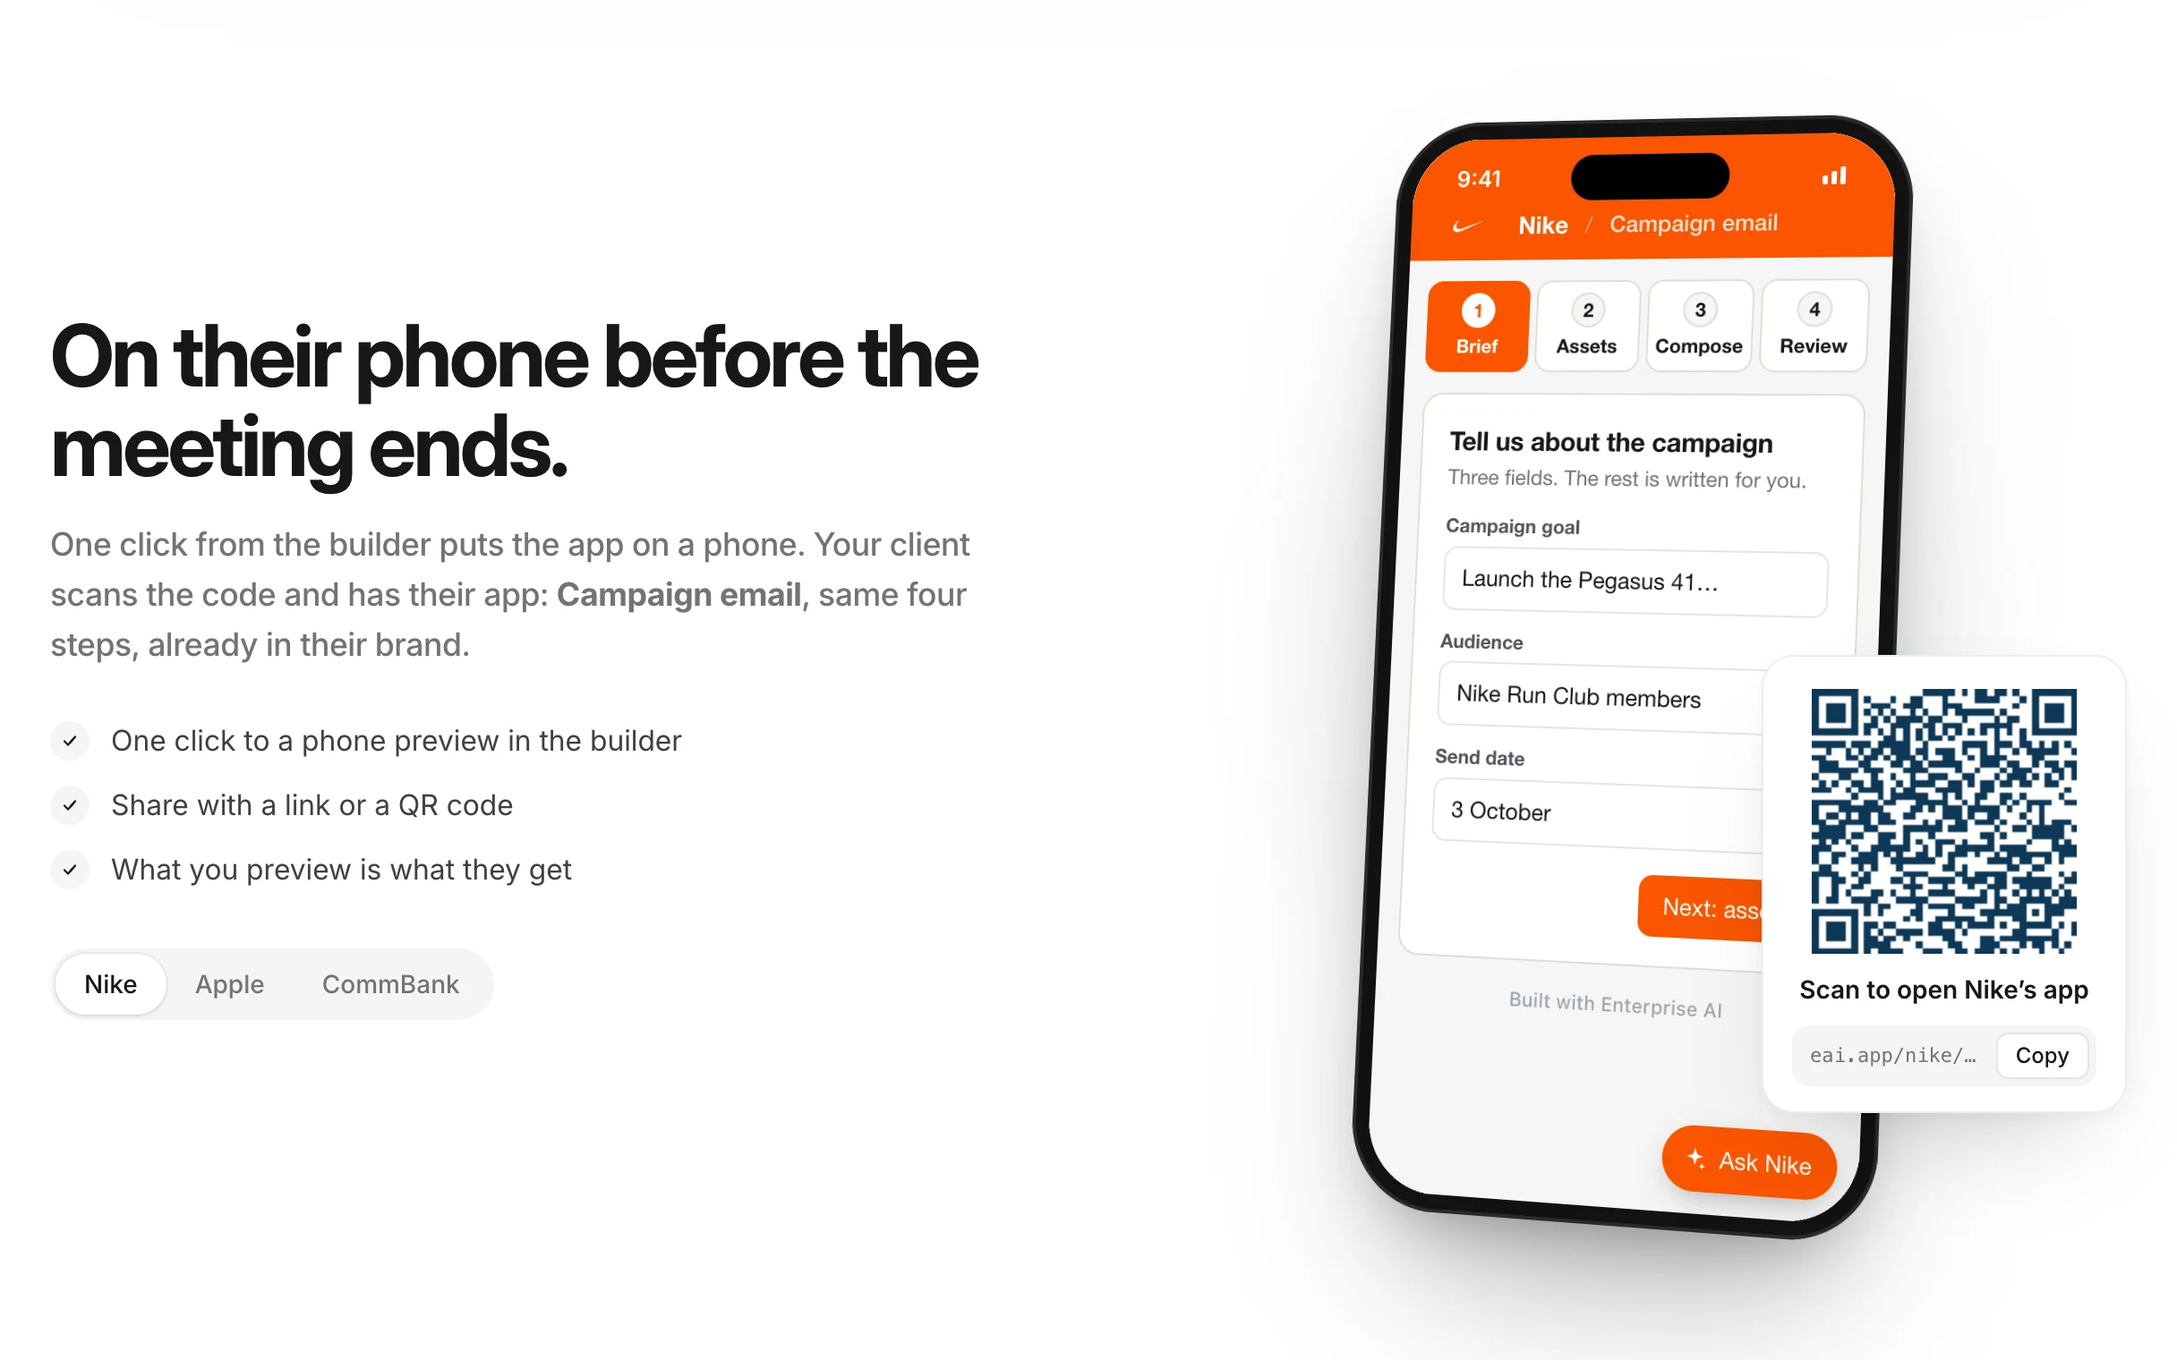
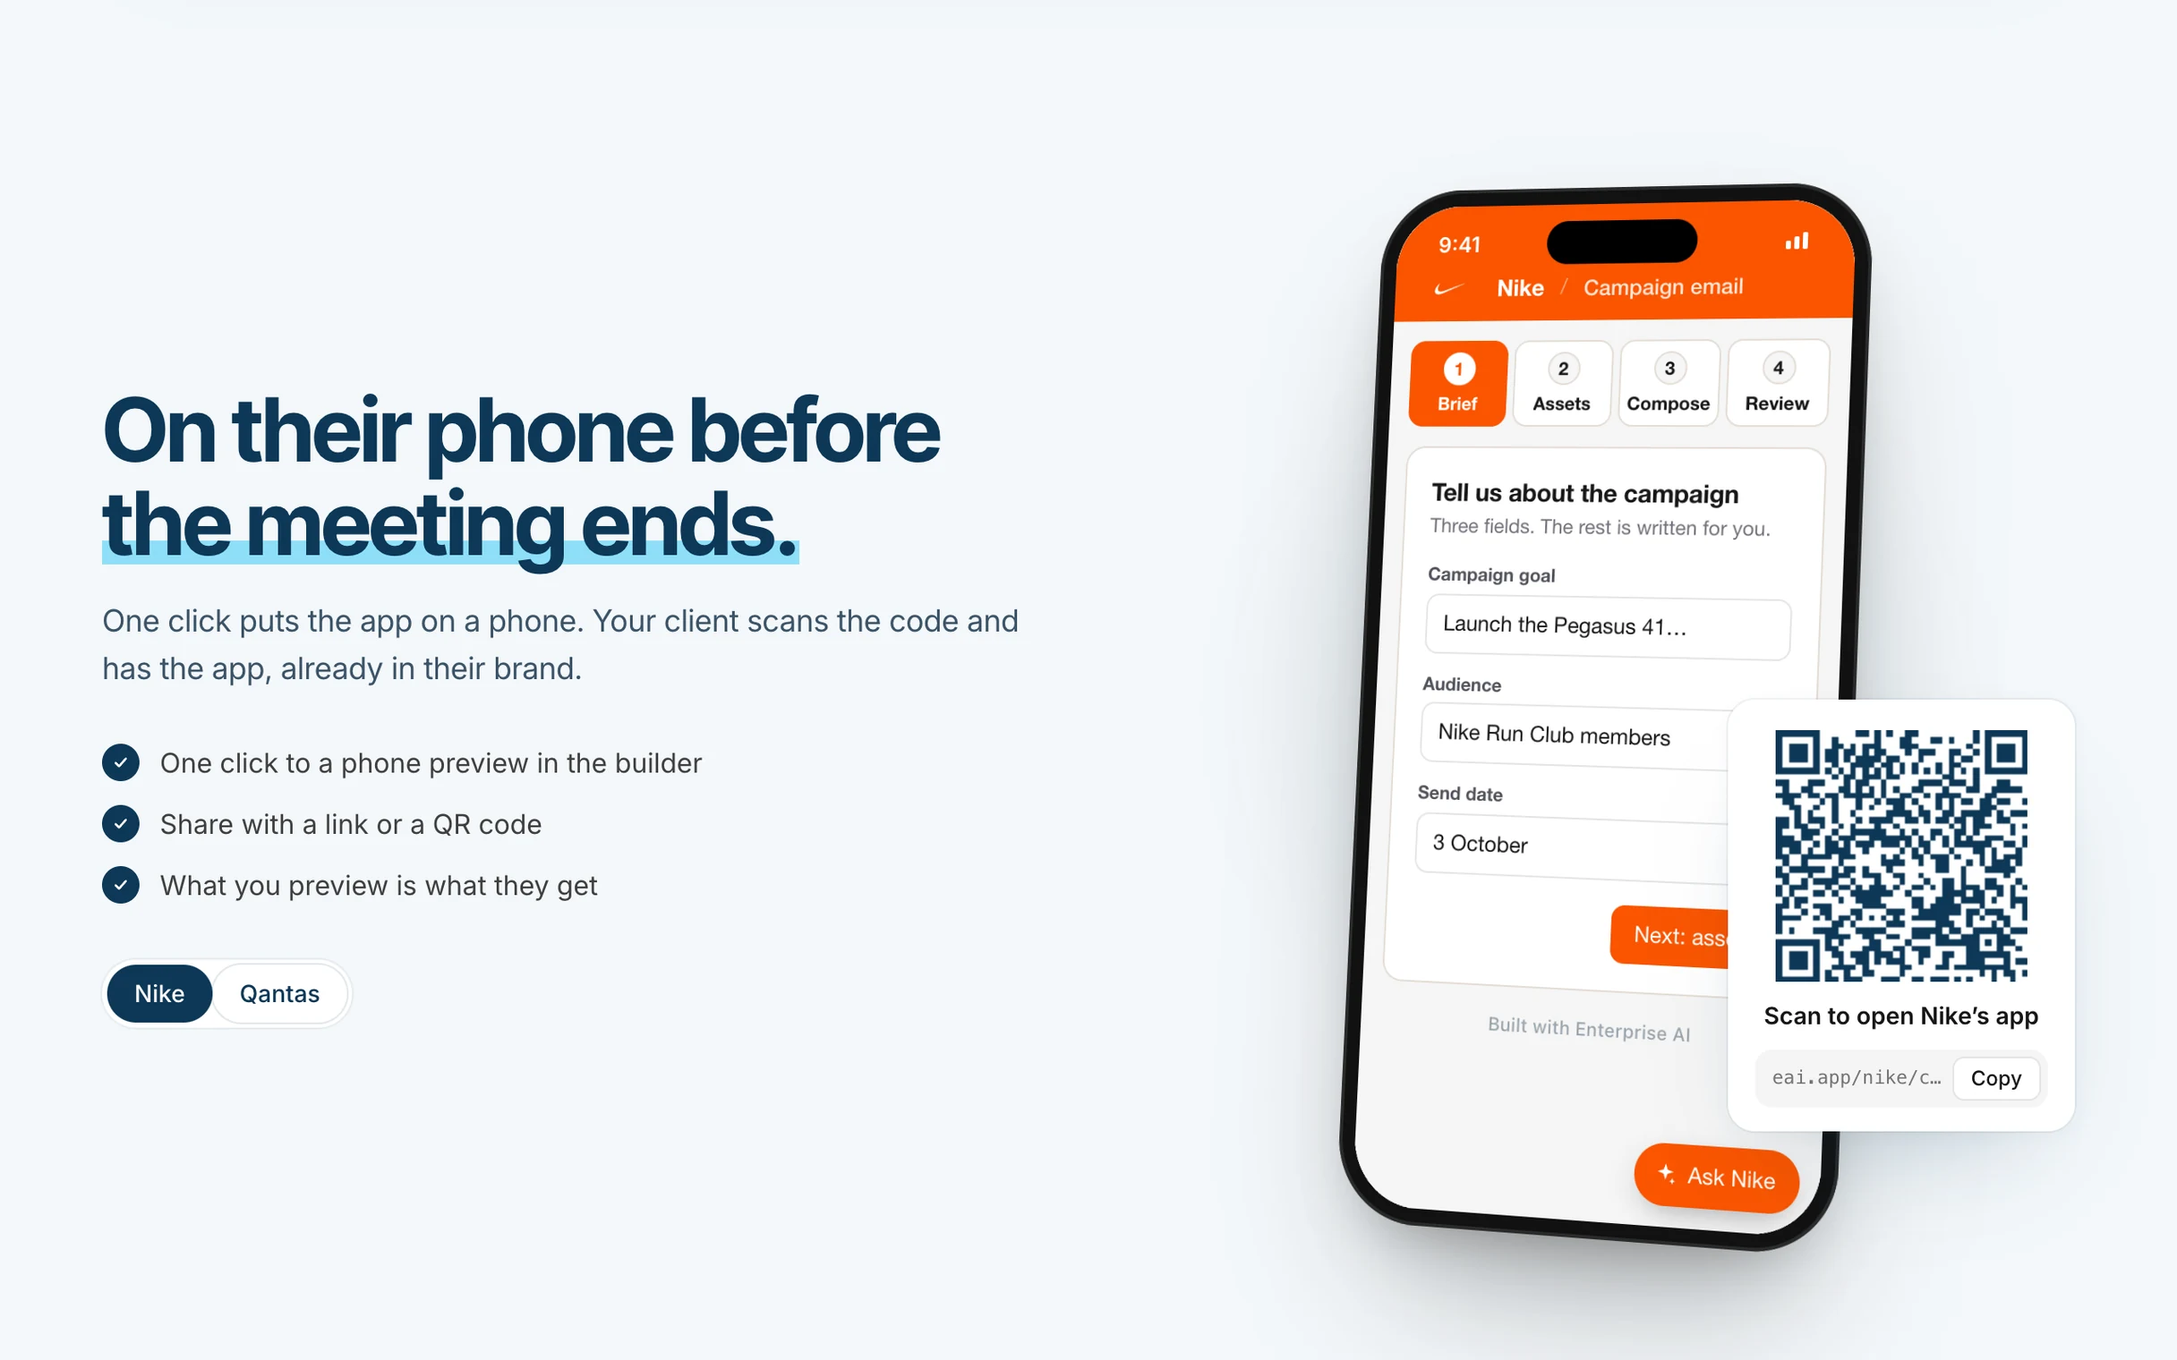
Homepage polish: smooth product clips, apps on a plain mat, tighter AI section (#138)
- Preload every asset a replay uses (CORS mode, as CSS masks fetch them) before it plays, so
  apps that redraw on each click no longer flash blank artwork
- Dispatch and Thesis heroes: recorded page cleared (css rules + matching color-scheme), app on a
  plain tint mat instead of the shader and black page
- AI section: drop Settings; clearer tab labels; re-skin detail from the site replay
- Website phone still re-captured on the site's own EAI blue, blue mat

Changed region(s): [[0.5938, 0.0618, 0.9688, 0.9276], [0.0, 0.2164, 0.4688, 0.6803], [0.0312, 0.7112, 0.2188, 0.773]]

diff --git a/src/content/home-showcase.ts b/src/content/home-showcase.ts
@@ -33,6 +33,7 @@ export interface ShowcasePiece {
   hero: ShowcaseScene
   framed: boolean // the hero in its colour (a demo) or bare (a showcase)
   backdrop?: number // the hero on a moving shader instead (a Shader Wall palette)
+  matte?: boolean // the hero on a plain mat of its colour (its recorded page cleared, so only the app shows)
   heroPlain?: boolean // the hero stands on its frame's colour with no window round it
   tint: string // the piece's colour: its frames and its details
   impact?: { value?: string; label: string }[] // only what the case study already says
@@ -65,6 +66,9 @@ const BP_DIALOG = { x: 38, y: 70, width: 1496, height: 858 } // the two-panel di
 
 const DISPATCH = '/replays/products/dispatch-app.json'
 const THESIS = '/replays/products/thesis-app.json'
+// The product site's black page cleared away (and the sign-up above the app hidden), so only the
+// app window, and Dispatch's Kindle, sits on the mat
+const CLEAR_PAGE = ['html, body { background: transparent !important; }', '.lede, .waitlist, .theme-toggle { visibility: hidden !important; }']
 
 export const SHOWCASE_SECTIONS: ShowcaseSection[] = [
   {
@@ -87,8 +91,8 @@ export const SHOWCASE_SECTIONS: ShowcaseSection[] = [
       {
         id: 'dispatch', title: 'Dispatch', summary: 'Send articles to your Kindle in one click, from your browser, your Mac or a bot that reads your newsletters.',
         visit: { label: 'Visit Dispatch', href: 'https://www.dispatchmac.com' },
-        // The app (and its Kindle) on a shader, cropped close so little of the black page shows
-        hero: crop(DISPATCH, 0.8, 11.6, { x: 160, y: 128, width: 1200, height: 750 }), framed: false, backdrop: 2, tint: '#E3ECF7',
+        // The app (and its Kindle) with an even margin; its frosted window made solid now there's nothing behind it
+        hero: { ...crop(DISPATCH, 0.8, 11.6, { x: 96, y: 36, width: 1322, height: 826 }), scheme: 'dark', css: [...CLEAR_PAGE, '#hero-app { background: rgb(23, 23, 25) !important; backdrop-filter: none !important; }'] }, framed: false, matte: true, tint: '#E3ECF7',
         details: [
           // Recorded from dispatchmac.com's own sections, its demo pointer stopped so the clicks are mine
           { title: 'Use it with Grokbot', scene: crop('/replays/products/dispatch-grokbot.json', 1.5, 11.1, { x: 125, y: 75, width: 1040, height: 650 }) },
@@ -99,7 +103,7 @@ export const SHOWCASE_SECTIONS: ShowcaseSection[] = [
       {
         id: 'thesis', title: 'Thesis', summary: 'Every claim in a plan is a bet. Test them all at once: AI drafts the tests and gathers the evidence.',
         visit: { label: 'Visit Thesis', href: 'https://thesis-phi-self.vercel.app' },
-        hero: crop(THESIS, 1.6, 13.8, { x: 120, y: 74, width: 1200, height: 750 }), framed: false, tint: '#E2EFE4', // past the page's fade-in
+        hero: { ...crop(THESIS, 1.6, 13.8, { x: 96, y: 59, width: 1248, height: 780 }), scheme: 'dark', css: CLEAR_PAGE }, framed: false, matte: true, tint: '#E2EFE4', // past the page's fade-in
         details: [
           { title: 'Tap a claim, see the bet', scene: crop(THESIS, 1.6, 13.8, { x: 370, y: 280, width: 600, height: 375 }) },
           { title: 'Integrate with the tools you use', scene: crop('/replays/products/thesis-integrations.json', 1.2, 12.9, { x: 72, y: 50, width: 1136, height: 710 }) },
@@ -115,36 +119,30 @@ export const SHOWCASE_SECTIONS: ShowcaseSection[] = [
     quote: 'Ahmed Hakeem',
     pieces: [
       {
-        id: 'rfp', tab: 'RFP', title: 'Using AI to partner with sales to win a deal', summary: 'Leveraging AI to compete with larger companies: a product-like prototype, seed data and connected LLMs.',
+        id: 'rfp', tab: 'Winning a tender', title: 'Using AI to partner with sales to win a deal', summary: 'Leveraging AI to compete with larger companies: a product-like prototype, seed data and connected LLMs.',
         caseStudy: '/projects/rfp',
         hero: scene('rfp-overview'), framed: true, tint: '#E6EEE7',
         impact: [{ value: '3', label: 'of us, against vendors with whole teams' }, { label: 'The prototype outlived the tender' }],
         details: [visual('rfp-llm-chat'), visual('rfp-determination', 'The decision letter'), visual('rfp-ask')],
       },
       {
-        id: 'configurator', tab: 'Configurator', title: 'Testing a thesis by building it', summary: 'Where a Figma prototype couldn’t answer the question, because it needed dynamic data.',
+        id: 'configurator', tab: 'Testing on live models', title: 'Testing a thesis by building it', summary: 'Where a Figma prototype couldn’t answer the question, because it needed dynamic data.',
         caseStudy: '/projects/configurator',
         hero: scene('configurator-overview'), framed: true, tint: '#F6E5E3',
         impact: [{ value: '6s vs 21s', label: 'GPT-4.1 against GPT-5 mini' }, { label: 'Changed the product’s direction' }],
         details: [visual('configurator-models'), visual('configurator-jev'), visual('configurator-qr')],
       },
       {
-        id: 'html-brand-website', tab: 'Enterprise AI site', title: 'Build an app, brand it per client, share it to a phone', summary: 'A marketing site built from an HTML brand.',
+        id: 'html-brand-website', tab: 'An agent-built website', title: 'Build an app, brand it per client, share it to a phone', summary: 'A marketing site built from an HTML brand.',
         caseStudy: '/projects/html-brand-website',
-        hero: scene('website'), framed: true, tint: '#FBE9DA',
+        hero: scene('website'), framed: true, tint: '#DCE7F1', // a soft Enterprise AI blue, under the site's own #F3F7FA
         impact: [{ value: '10', label: 'variations in a day' }, { value: '5 of 7', label: 'understood the offer, up from 2 of 5' }],
         details: [
           visual('eai-setup'),
-          { title: 'The site, built by an agent from the brand', scene: video('/gallery/clips/eai-website-build.mp4', 0, 22) },
+          // The site's own builder: Nike's app done, name the next client, and it re-skins for Qantas
+          { title: 'Name the next client, and the app re-skins', scene: crop('/replays/website/site.json', 10.6, 16.5, { x: 140, y: 232, width: 800, height: 500 }) },
           { title: 'The site in its new brand', scene: { image: '/case-studies/html-brand-website/site-hero.webp', hold: 10, layout: 'full', title: '' } },
         ],
-      },
-      {
-        id: 'eai-settings', tab: 'Settings', title: 'Two levels of settings, without getting lost', summary: 'Settings organised by what you want, not how it’s built.',
-        caseStudy: '/projects/eai-settings',
-        hero: scene('eai-settings-nested'), framed: true, tint: '#E3ECF7',
-        impact: [{ value: '5 of 5', label: 'switched to the right app' }, { value: '5 of 5', label: 'found the feature' }],
-        details: [visual('eai-settings-features'), visual('configurator-show-prompt')],
       },
     ],
   },

diff --git a/src/components/showcase/ShowcaseReel.tsx b/src/components/showcase/ShowcaseReel.tsx
@@ -22,6 +22,8 @@ export interface ShowcaseScene {
   site?: string // a live site, drawn at 1440x900 and not interactive
   image?: string // a still, held with a slow push in
   region?: Region // the part of the recording to show
+  css?: string[] // rules added to a recorded page (one per string), e.g. to clear its background so only the app shows
+  scheme?: 'dark' // the recorded page's color-scheme. Chrome paints an opaque backdrop behind an iframe whose scheme differs from the page around it, so a cleared dark page still showed black
   from?: number // seconds into the recording
   to?: number
   rate?: number // playback speed
@@ -57,6 +59,26 @@ const load = (src: string): Promise<Recording> => {
   if (!cache.has(src)) cache.set(src, fetch(src).then((r) => r.text()))
   return cache.get(src)!.then((text) => JSON.parse(text))
 }
+// The pictures a recording uses (its art is often CSS masks), loaded and decoded before it plays.
+// An app that redraws itself on every click makes new elements for its pictures each time, and a
+// picture that isn't in memory yet paints blank for a frame or two, so the screen flickers. Kept
+// referenced so the browser holds on to them.
+const pictures = new Map<string, Promise<void>>()
+const held: HTMLImageElement[] = []
+const preload = (src: string): Promise<void> =>
+  cache.get(src)!.then((text) => {
+    const urls = Array.from(new Set(text.match(/\/replays\/assets\/[\w.-]+\.(?:png|jpe?g|webp|gif|svg)/g) ?? []))
+    return Promise.all(urls.map((url) => {
+      if (!pictures.has(url)) {
+        const img = new Image()
+        img.crossOrigin = 'anonymous' // a CSS mask is fetched with CORS, and only a matching request shares its cache
+        img.src = url
+        held.push(img)
+        pictures.set(url, img.decode().catch(() => {}))
+      }
+      return pictures.get(url)!
+    })).then(() => {})
+  })
 const hasMedia = (s: ShowcaseScene) => !!(s.src || s.video || s.site || s.image)
 export const sceneDuration = (s: ShowcaseScene) =>
   s.src || s.video ? ((s.to ?? 0) - (s.from ?? 0)) / (s.rate ?? 1) : s.hold ?? (s.site ? 6 : s.image ? 4 : 3)
@@ -71,7 +93,7 @@ function place(region: Region, box: Box, fill: boolean) {
 }
 
 // One scene's media, cropped to its region and placed in its box
-function SceneMedia({ scene, playing, box, fill, dark, onReady, lap = 0 }: { scene: ShowcaseScene; playing: boolean; box: Box; fill: boolean; dark: boolean; onReady: () => void; lap?: number }) {
+function SceneMedia({ scene, playing, box, fill, dark, clear, onReady, lap = 0 }: { scene: ShowcaseScene; playing: boolean; box: Box; fill: boolean; dark: boolean; clear: boolean; onReady: () => void; lap?: number }) {
   const root = useRef<HTMLDivElement>(null)
   const video = useRef<HTMLVideoElement>(null)
   const player = useRef<Player | null>(null)
@@ -83,10 +105,12 @@ function SceneMedia({ scene, playing, box, fill, dark, onReady, lap = 0 }: { sce
     let gone = false
     ;(async () => {
       const [{ Replayer }, rec] = await Promise.all([import('@rrweb/replay'), load(scene.src!)])
+      // Its pictures first (a slow one gets three seconds)
+      await Promise.race([preload(scene.src!), new Promise((r) => setTimeout(r, 3000))])
       if (gone || !root.current) return
       setSize(rec.meta)
       // eslint-disable-next-line @typescript-eslint/no-explicit-any
-      const r = new Replayer(rec.events as any, { root: root.current, mouseTail: false, showWarning: false, triggerFocus: false }) as unknown as Player
+      const r = new Replayer(rec.events as any, { root: root.current, mouseTail: false, showWarning: false, triggerFocus: false, insertStyleRules: scene.css ?? [] }) as unknown as Player
       r.setConfig({ speed: scene.rate ?? 1 })
       r.pause((scene.from ?? 0) * 1000)
       player.current = r
@@ -119,7 +143,7 @@ function SceneMedia({ scene, playing, box, fill, dark, onReady, lap = 0 }: { sce
 
   return (
     <div
-      className={`absolute overflow-hidden ${fill ? '' : 'rounded-2xl'} bg-white`}
+      className={`absolute overflow-hidden ${fill ? '' : 'rounded-2xl'} ${clear ? '' : 'bg-white'}`}
       style={{
         left: Math.max(p.left, box.x), top: Math.max(p.top, box.y), width: Math.min(p.w, box.w), height: Math.min(p.h, box.h),
         boxShadow: fill ? undefined : dark
@@ -130,7 +154,7 @@ function SceneMedia({ scene, playing, box, fill, dark, onReady, lap = 0 }: { sce
       {/* Offset so a filled scene stays centred on its region */}
       <div className="absolute" style={{ left: Math.min(0, p.left - box.x), top: Math.min(0, p.top - box.y), width: p.w, height: p.h }}>
         {scene.src && (
-          <div ref={root} className={`rr-stage ${size?.mouse ? 'rr-mouse' : ''} absolute left-0 top-0 origin-top-left`} style={inner} />
+          <div ref={root} className={`rr-stage ${size?.mouse ? 'rr-mouse' : ''} absolute left-0 top-0 origin-top-left`} style={{ ...inner, colorScheme: scene.scheme }} />
         )}
         {scene.video && (
           <video
@@ -265,7 +289,7 @@ export function ShowcaseReel({ scenes: all, captions = true, theme = 'light', pl
             </div>
           ) : (
             <>
-              {hasMedia(scene) && <SceneMedia scene={scene} playing={shown && active} box={BOX[layout]} fill={fill} dark={dark} onReady={() => setReady(index)} lap={scenes.length === 1 ? lap : 0} />}
+              {hasMedia(scene) && <SceneMedia scene={scene} playing={shown && active} box={BOX[layout]} fill={fill} dark={dark} clear={clear} onReady={() => setReady(index)} lap={scenes.length === 1 ? lap : 0} />}
               {fill ? (
                 captions && (
                   <div className="absolute inset-x-0 bottom-0 px-24 pb-20 pt-48 text-white" style={{ background: 'linear-gradient(to top, rgba(9,9,11,.85), rgba(9,9,11,.4) 55%, transparent)' }}>

diff --git a/src/components/HomeShowcase.tsx b/src/components/HomeShowcase.tsx
@@ -22,8 +22,8 @@ import { getProjectById, hrefIsLive } from '@/content/projects'
 const ease = [0.25, 0.1, 0.25, 1] as const
 
 // Something that can be opened big: a clip or one of Shader Wall's widgets
-type Item = ShowcaseDetail
-const heroItem = (p: ShowcasePiece): Item => ({ title: p.title, scene: p.hero, backdrop: p.backdrop, plain: p.heroPlain })
+type Item = ShowcaseDetail & { matte?: string }
+const heroItem = (p: ShowcasePiece): Item => ({ title: p.title, scene: p.hero, backdrop: p.backdrop, plain: p.heroPlain, matte: p.matte ? p.tint : undefined })
 const itemsOf = (p: ShowcasePiece): Item[] => [heroItem(p), ...p.details]
 
 // A live site at its own size. Shrinking one with a transform (as the reel does) makes Chrome
@@ -40,7 +40,9 @@ function Media({ item, near: given }: { item: Item; near?: boolean }) {
   const scenes = useMemo(() => (item.scene ? [item.scene] : []), [item.scene])
   const clip = item.widget ? <HomeWidget kind={item.widget} />
     : near && item.scene?.site ? <LiveSite src={item.scene.site} />
-    : near && scenes.length > 0 && <ShowcaseReel scenes={scenes} captions={false} theme="light" onScreen={given} clear={item.plain} />
+    : near && scenes.length > 0 && <ShowcaseReel scenes={scenes} captions={false} theme="light" onScreen={given} clear={item.plain || !!item.matte} />
+  // On a plain mat of the piece's colour: the clip's own page is cleared, so only the app sits on it
+  if (item.matte) return <div ref={ref} className="absolute inset-0" style={{ background: item.matte }}>{clip}</div>
   if (item.backdrop === undefined) return <div ref={ref} className="absolute inset-0">{clip}</div>
   // On a shader: the clip inset like a window on a desktop
   return (

diff --git a/src/content/changelog.ts b/src/content/changelog.ts
@@ -14,6 +14,21 @@ export interface ChangelogEntry {
 // Changelog entries - newest first
 export const CHANGELOG: ChangelogEntry[] = [
   {
+    version: '3.0.1',
+    date: '2026-10-21',
+    title: 'Homepage Polish: Smooth Clips, Apps on Their Own',
+    description: 'The product clips stop flickering when a button is pressed, Dispatch and Thesis sit on a plain mat without their sites\' black page, and the AI section is tightened up.',
+    changes: [
+      'No more flicker on clicks: an app that redraws itself made fresh elements for its artwork, which painted blank until the image loaded. Every picture a recording uses is now loaded (the way a CSS mask asks for it) before the clip plays',
+      'Dispatch and Thesis: just the app (and Dispatch\'s Kindle) on a soft mat of their colour, in place of the shader and the black page around them',
+      'AI section: Settings removed; tabs say what each piece is (Winning a tender, Testing on live models, An agent-built website)',
+      'The website\'s phone still re-captured on the site\'s own Enterprise AI blue, on a blue mat',
+      'New detail: name the next client and the app re-skins, from Nike to Qantas, cropped close from the site\'s replay',
+    ],
+    aiTools: ['Claude Code'],
+    branch: 'GChainey/new-site-version-go-live',
+  },
+  {
     version: '3.0.0',
     date: '2026-10-20',
     title: 'Launch: the New Site, Case Studies to Follow',
